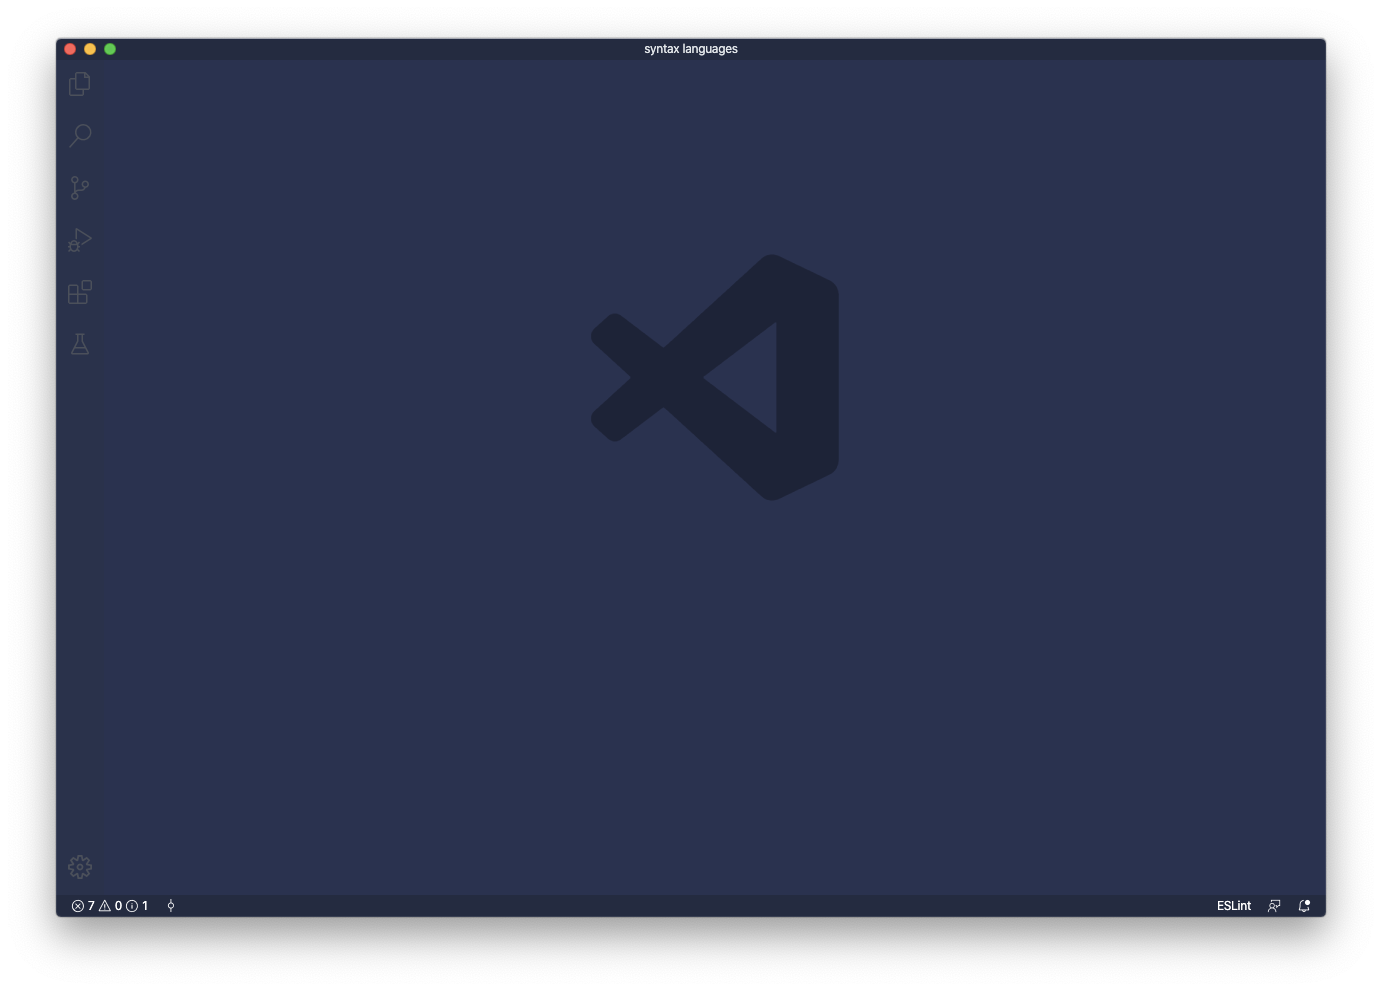
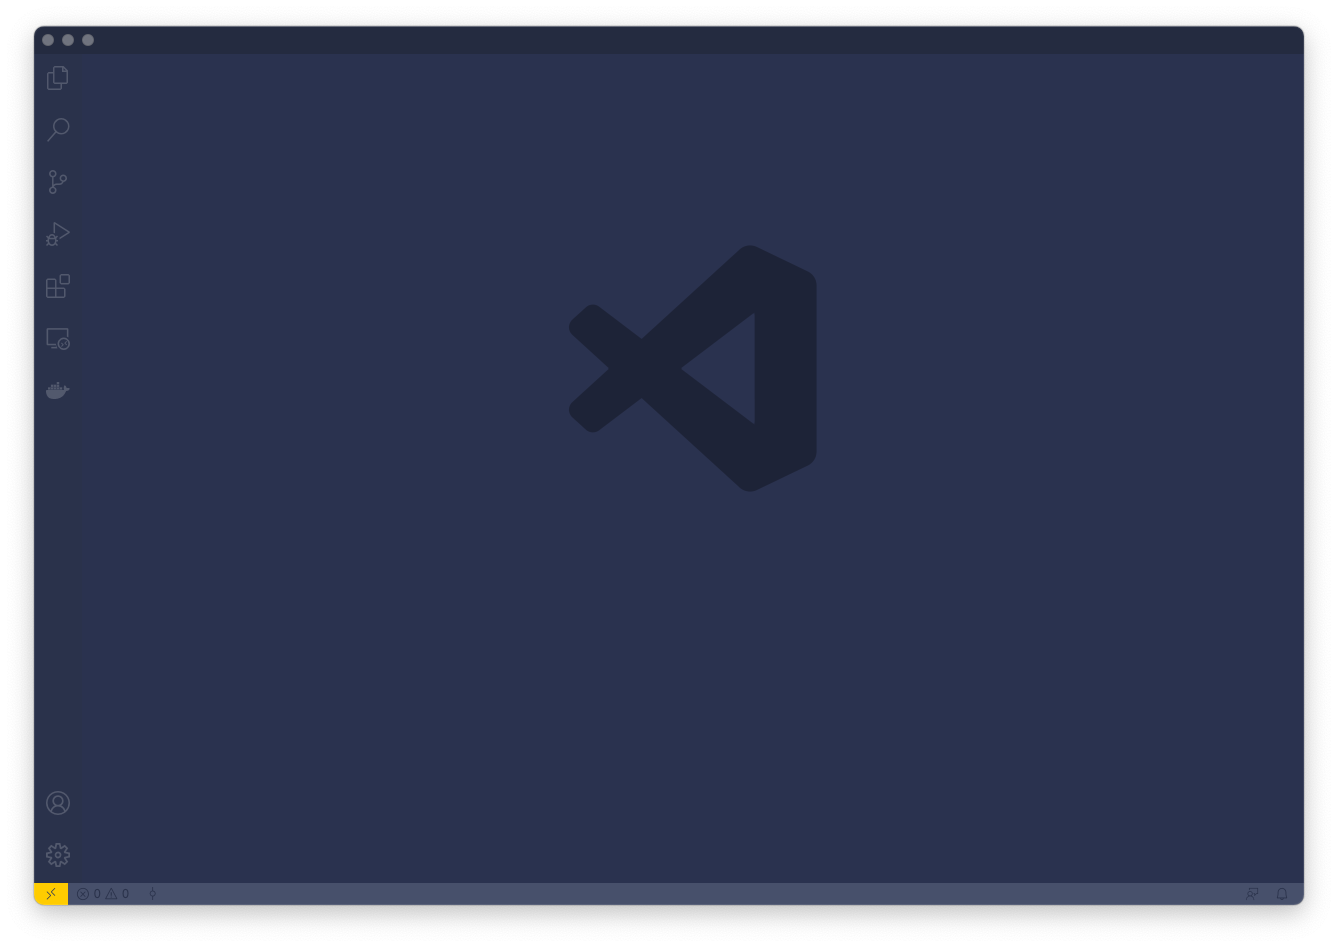
Updated preview images and readme.md

Changed region(s): [[0.0, 0.0, 0.9806, 0.9799]]

diff --git a/README.md b/README.md
@@ -38,9 +38,9 @@
 </div>
 
 <div align="center">
+	<img src="images/nanowise-reactjs.png">
 	<img src="images/nanowise-java.png">
 	<img src="images/nanowise-graphql.png">
-	<img src="images/nanowise-empty.png">
 	<img src="images/nanowise-welcome.png">
 </div>
 
